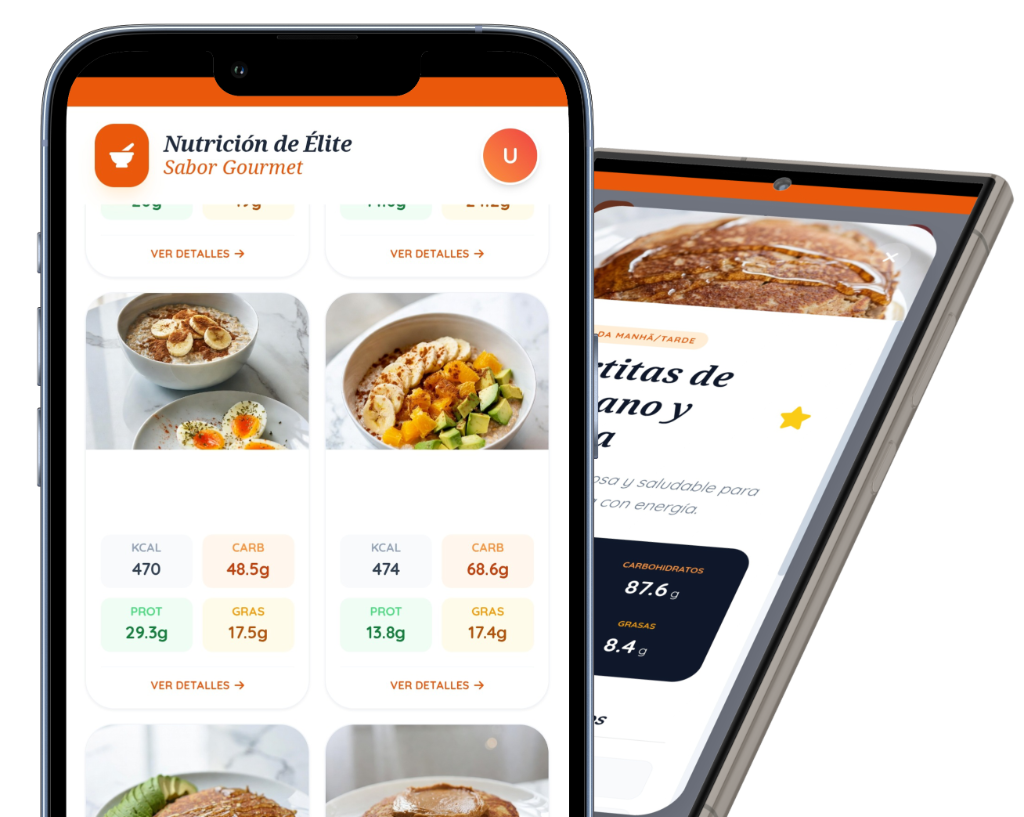
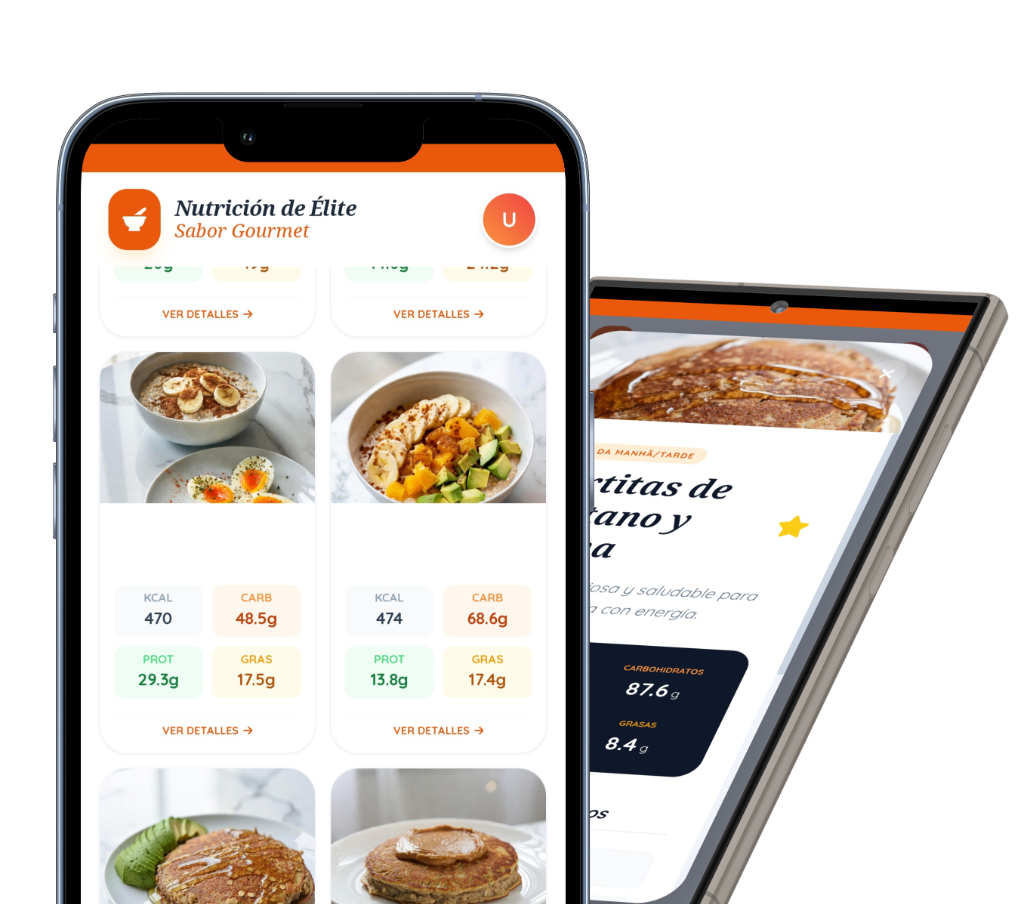
feat: update hero mockup image and increase size

diff --git a/src/App.css b/src/App.css
@@ -266,9 +266,9 @@
 
 .hero-phone-mockup {
     width: 100%;
-    max-width: 500px;
+    max-width: 620px;
     height: auto;
-    filter: drop-shadow(0 20px 40px rgba(0, 0, 0, 0.1));
+    filter: drop-shadow(0 20px 40px rgba(0, 0, 0, 0.12));
     animation: float 6s ease-in-out infinite;
 }
 
